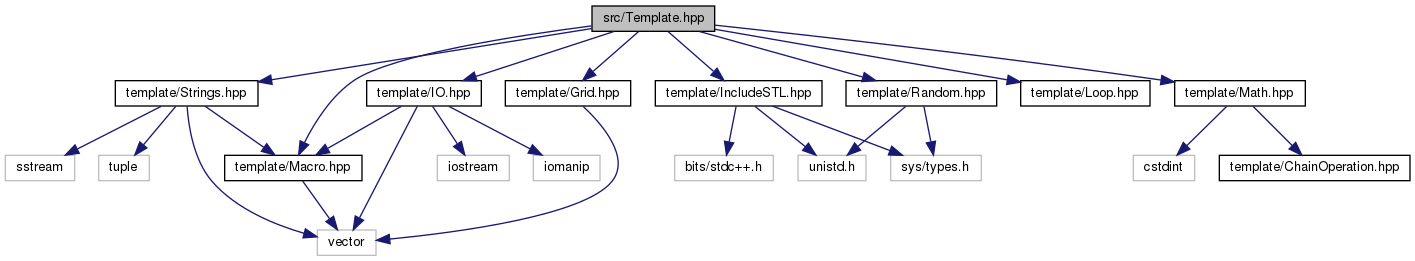
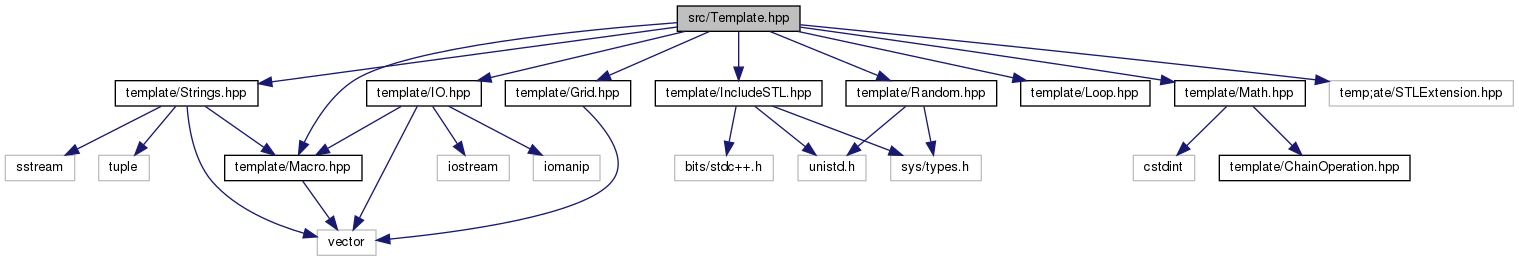
[ci] update documents

diff --git a/docs/html/d4/d19/_s_t_l_extension_8hpp.html b/docs/html/d4/d19/_s_t_l_extension_8hpp.html
@@ -98,8 +98,6 @@ $(document).ready(function(){initNavTree('d4/d19/_s_t_l_extension_8hpp.html','..
 Include dependency graph for STLExtension.hpp:</div>
 <div class="dyncontent">
 <div class="center"><img src="../../d0/d15/_s_t_l_extension_8hpp__incl.png" border="0" usemap="#src_2template_2_s_t_l_extension_8hpp" alt=""/></div>
-<map name="src_2template_2_s_t_l_extension_8hpp" id="src_2template_2_s_t_l_extension_8hpp">
-</map>
 </div>
 </div><div class="textblock"><div class="dynheader">
 This graph shows which files directly or indirectly include this file:</div>
@@ -221,15 +219,11 @@ template&lt;typename T , typename U &gt; </div>
 Here is the call graph for this function:</div>
 <div class="dyncontent">
 <div class="center"><img src="../../d4/d19/_s_t_l_extension_8hpp_a3a4d1aa13e4c8fd2f856d95381d37332_cgraph.png" border="0" usemap="#d4/d19/_s_t_l_extension_8hpp_a3a4d1aa13e4c8fd2f856d95381d37332_cgraph" alt=""/></div>
-<map name="d4/d19/_s_t_l_extension_8hpp_a3a4d1aa13e4c8fd2f856d95381d37332_cgraph" id="d4/d19/_s_t_l_extension_8hpp_a3a4d1aa13e4c8fd2f856d95381d37332_cgraph">
-</map>
 </div>
 <div class="dynheader">
 Here is the caller graph for this function:</div>
 <div class="dyncontent">
 <div class="center"><img src="../../d4/d19/_s_t_l_extension_8hpp_a3a4d1aa13e4c8fd2f856d95381d37332_icgraph.png" border="0" usemap="#d4/d19/_s_t_l_extension_8hpp_a3a4d1aa13e4c8fd2f856d95381d37332_icgraph" alt=""/></div>
-<map name="d4/d19/_s_t_l_extension_8hpp_a3a4d1aa13e4c8fd2f856d95381d37332_icgraph" id="d4/d19/_s_t_l_extension_8hpp_a3a4d1aa13e4c8fd2f856d95381d37332_icgraph">
-</map>
 </div>
 
 </div>
@@ -345,15 +339,11 @@ template&lt;typename Container , typename T &gt; </div>
 Here is the call graph for this function:</div>
 <div class="dyncontent">
 <div class="center"><img src="../../d4/d19/_s_t_l_extension_8hpp_a793eb926345978297b088f99d1db2910_cgraph.png" border="0" usemap="#d4/d19/_s_t_l_extension_8hpp_a793eb926345978297b088f99d1db2910_cgraph" alt=""/></div>
-<map name="d4/d19/_s_t_l_extension_8hpp_a793eb926345978297b088f99d1db2910_cgraph" id="d4/d19/_s_t_l_extension_8hpp_a793eb926345978297b088f99d1db2910_cgraph">
-</map>
 </div>
 <div class="dynheader">
 Here is the caller graph for this function:</div>
 <div class="dyncontent">
 <div class="center"><img src="../../d4/d19/_s_t_l_extension_8hpp_a793eb926345978297b088f99d1db2910_icgraph.png" border="0" usemap="#d4/d19/_s_t_l_extension_8hpp_a793eb926345978297b088f99d1db2910_icgraph" alt=""/></div>
-<map name="d4/d19/_s_t_l_extension_8hpp_a793eb926345978297b088f99d1db2910_icgraph" id="d4/d19/_s_t_l_extension_8hpp_a793eb926345978297b088f99d1db2910_icgraph">
-</map>
 </div>
 
 </div>
@@ -414,15 +404,11 @@ Here is the caller graph for this function:</div>
 Here is the call graph for this function:</div>
 <div class="dyncontent">
 <div class="center"><img src="../../d4/d19/_s_t_l_extension_8hpp_a47d0381060d6e9728af82d63c279ce98_cgraph.png" border="0" usemap="#d4/d19/_s_t_l_extension_8hpp_a47d0381060d6e9728af82d63c279ce98_cgraph" alt=""/></div>
-<map name="d4/d19/_s_t_l_extension_8hpp_a47d0381060d6e9728af82d63c279ce98_cgraph" id="d4/d19/_s_t_l_extension_8hpp_a47d0381060d6e9728af82d63c279ce98_cgraph">
-</map>
 </div>
 <div class="dynheader">
 Here is the caller graph for this function:</div>
 <div class="dyncontent">
 <div class="center"><img src="../../d4/d19/_s_t_l_extension_8hpp_a47d0381060d6e9728af82d63c279ce98_icgraph.png" border="0" usemap="#d4/d19/_s_t_l_extension_8hpp_a47d0381060d6e9728af82d63c279ce98_icgraph" alt=""/></div>
-<map name="d4/d19/_s_t_l_extension_8hpp_a47d0381060d6e9728af82d63c279ce98_icgraph" id="d4/d19/_s_t_l_extension_8hpp_a47d0381060d6e9728af82d63c279ce98_icgraph">
-</map>
 </div>
 
 </div>
@@ -491,15 +477,11 @@ template&lt;typename ITR &gt; </div>
 Here is the call graph for this function:</div>
 <div class="dyncontent">
 <div class="center"><img src="../../d4/d19/_s_t_l_extension_8hpp_a5361fe11f12bba2484c23a8308933524_cgraph.png" border="0" usemap="#d4/d19/_s_t_l_extension_8hpp_a5361fe11f12bba2484c23a8308933524_cgraph" alt=""/></div>
-<map name="d4/d19/_s_t_l_extension_8hpp_a5361fe11f12bba2484c23a8308933524_cgraph" id="d4/d19/_s_t_l_extension_8hpp_a5361fe11f12bba2484c23a8308933524_cgraph">
-</map>
 </div>
 <div class="dynheader">
 Here is the caller graph for this function:</div>
 <div class="dyncontent">
 <div class="center"><img src="../../d4/d19/_s_t_l_extension_8hpp_a5361fe11f12bba2484c23a8308933524_icgraph.png" border="0" usemap="#d4/d19/_s_t_l_extension_8hpp_a5361fe11f12bba2484c23a8308933524_icgraph" alt=""/></div>
-<map name="d4/d19/_s_t_l_extension_8hpp_a5361fe11f12bba2484c23a8308933524_icgraph" id="d4/d19/_s_t_l_extension_8hpp_a5361fe11f12bba2484c23a8308933524_icgraph">
-</map>
 </div>
 
 </div>
@@ -632,15 +614,11 @@ template&lt;typename ITR &gt; </div>
 Here is the call graph for this function:</div>
 <div class="dyncontent">
 <div class="center"><img src="../../d4/d19/_s_t_l_extension_8hpp_adeea0e688ee5326451a073f4ceeb9f7f_cgraph.png" border="0" usemap="#d4/d19/_s_t_l_extension_8hpp_adeea0e688ee5326451a073f4ceeb9f7f_cgraph" alt=""/></div>
-<map name="d4/d19/_s_t_l_extension_8hpp_adeea0e688ee5326451a073f4ceeb9f7f_cgraph" id="d4/d19/_s_t_l_extension_8hpp_adeea0e688ee5326451a073f4ceeb9f7f_cgraph">
-</map>
 </div>
 <div class="dynheader">
 Here is the caller graph for this function:</div>
 <div class="dyncontent">
 <div class="center"><img src="../../d4/d19/_s_t_l_extension_8hpp_adeea0e688ee5326451a073f4ceeb9f7f_icgraph.png" border="0" usemap="#d4/d19/_s_t_l_extension_8hpp_adeea0e688ee5326451a073f4ceeb9f7f_icgraph" alt=""/></div>
-<map name="d4/d19/_s_t_l_extension_8hpp_adeea0e688ee5326451a073f4ceeb9f7f_icgraph" id="d4/d19/_s_t_l_extension_8hpp_adeea0e688ee5326451a073f4ceeb9f7f_icgraph">
-</map>
 </div>
 
 </div>
@@ -755,15 +733,11 @@ template&lt;typename Container &gt; </div>
 Here is the call graph for this function:</div>
 <div class="dyncontent">
 <div class="center"><img src="../../d4/d19/_s_t_l_extension_8hpp_a3c4370a67563da5a0e302f38c2ec58fe_cgraph.png" border="0" usemap="#d4/d19/_s_t_l_extension_8hpp_a3c4370a67563da5a0e302f38c2ec58fe_cgraph" alt=""/></div>
-<map name="d4/d19/_s_t_l_extension_8hpp_a3c4370a67563da5a0e302f38c2ec58fe_cgraph" id="d4/d19/_s_t_l_extension_8hpp_a3c4370a67563da5a0e302f38c2ec58fe_cgraph">
-</map>
 </div>
 <div class="dynheader">
 Here is the caller graph for this function:</div>
 <div class="dyncontent">
 <div class="center"><img src="../../d4/d19/_s_t_l_extension_8hpp_a3c4370a67563da5a0e302f38c2ec58fe_icgraph.png" border="0" usemap="#d4/d19/_s_t_l_extension_8hpp_a3c4370a67563da5a0e302f38c2ec58fe_icgraph" alt=""/></div>
-<map name="d4/d19/_s_t_l_extension_8hpp_a3c4370a67563da5a0e302f38c2ec58fe_icgraph" id="d4/d19/_s_t_l_extension_8hpp_a3c4370a67563da5a0e302f38c2ec58fe_icgraph">
-</map>
 </div>
 
 </div>
@@ -814,15 +788,11 @@ template&lt;typename Container &gt; </div>
 Here is the call graph for this function:</div>
 <div class="dyncontent">
 <div class="center"><img src="../../d4/d19/_s_t_l_extension_8hpp_a85eebae905e5b0c5a31db11bef959fd0_cgraph.png" border="0" usemap="#d4/d19/_s_t_l_extension_8hpp_a85eebae905e5b0c5a31db11bef959fd0_cgraph" alt=""/></div>
-<map name="d4/d19/_s_t_l_extension_8hpp_a85eebae905e5b0c5a31db11bef959fd0_cgraph" id="d4/d19/_s_t_l_extension_8hpp_a85eebae905e5b0c5a31db11bef959fd0_cgraph">
-</map>
 </div>
 <div class="dynheader">
 Here is the caller graph for this function:</div>
 <div class="dyncontent">
 <div class="center"><img src="../../d4/d19/_s_t_l_extension_8hpp_a85eebae905e5b0c5a31db11bef959fd0_icgraph.png" border="0" usemap="#d4/d19/_s_t_l_extension_8hpp_a85eebae905e5b0c5a31db11bef959fd0_icgraph" alt=""/></div>
-<map name="d4/d19/_s_t_l_extension_8hpp_a85eebae905e5b0c5a31db11bef959fd0_icgraph" id="d4/d19/_s_t_l_extension_8hpp_a85eebae905e5b0c5a31db11bef959fd0_icgraph">
-</map>
 </div>
 
 </div>

diff --git a/docs/html/df/dc0/_template_8hpp_source.html b/docs/html/df/dc0/_template_8hpp_source.html
@@ -84,7 +84,7 @@ $(document).ready(function(){initNavTree('df/dc0/_template_8hpp_source.html','..
 <div class="title">Template.hpp</div>  </div>
 </div><!--header-->
 <div class="contents">
-<a href="../../df/dc0/_template_8hpp.html">Go to the documentation of this file.</a><div class="fragment"><div class="line"><a name="l00001"></a><span class="lineno">    1</span>&#160;</div><div class="line"><a name="l00009"></a><span class="lineno">    9</span>&#160;<span class="comment">/*&lt;head&gt;*/</span></div><div class="line"><a name="l00010"></a><span class="lineno">   10</span>&#160;<span class="preprocessor">#pragma once</span></div><div class="line"><a name="l00011"></a><span class="lineno">   11</span>&#160;<span class="preprocessor">#include &quot;template/Grid.hpp&quot;</span></div><div class="line"><a name="l00012"></a><span class="lineno">   12</span>&#160;<span class="preprocessor">#include &quot;<a class="code" href="../../d8/d1c/_i_o_8hpp.html">template/IO.hpp</a>&quot;</span></div><div class="line"><a name="l00013"></a><span class="lineno">   13</span>&#160;<span class="preprocessor">#include &quot;<a class="code" href="../../de/d69/_include_s_t_l_8hpp.html">template/IncludeSTL.hpp</a>&quot;</span></div><div class="line"><a name="l00014"></a><span class="lineno">   14</span>&#160;<span class="preprocessor">#include &quot;<a class="code" href="../../d7/d75/_loop_8hpp.html">template/Loop.hpp</a>&quot;</span></div><div class="line"><a name="l00015"></a><span class="lineno">   15</span>&#160;<span class="preprocessor">#include &quot;<a class="code" href="../../de/d09/_macro_8hpp.html">template/Macro.hpp</a>&quot;</span></div><div class="line"><a name="l00016"></a><span class="lineno">   16</span>&#160;<span class="preprocessor">#include &quot;<a class="code" href="../../dc/dba/_math_8hpp.html">template/Math.hpp</a>&quot;</span></div><div class="line"><a name="l00017"></a><span class="lineno">   17</span>&#160;<span class="preprocessor">#include &quot;<a class="code" href="../../d0/d57/_random_8hpp.html">template/Random.hpp</a>&quot;</span></div><div class="line"><a name="l00018"></a><span class="lineno">   18</span>&#160;<span class="preprocessor">#include &quot;<a class="code" href="../../d2/dfe/_strings_8hpp.html">template/Strings.hpp</a>&quot;</span></div><div class="line"><a name="l00019"></a><span class="lineno">   19</span>&#160;<span class="comment">/*&lt;/head&gt;*/</span></div><div class="ttc" id="_macro_8hpp_html"><div class="ttname"><a href="../../de/d09/_macro_8hpp.html">Macro.hpp</a></div><div class="ttdoc">マクロとか，LLとか </div></div>
+<a href="../../df/dc0/_template_8hpp.html">Go to the documentation of this file.</a><div class="fragment"><div class="line"><a name="l00001"></a><span class="lineno">    1</span>&#160;</div><div class="line"><a name="l00009"></a><span class="lineno">    9</span>&#160;<span class="comment">/*&lt;head&gt;*/</span></div><div class="line"><a name="l00010"></a><span class="lineno">   10</span>&#160;<span class="preprocessor">#pragma once</span></div><div class="line"><a name="l00011"></a><span class="lineno">   11</span>&#160;<span class="preprocessor">#include &quot;template/Grid.hpp&quot;</span></div><div class="line"><a name="l00012"></a><span class="lineno">   12</span>&#160;<span class="preprocessor">#include &quot;<a class="code" href="../../d8/d1c/_i_o_8hpp.html">template/IO.hpp</a>&quot;</span></div><div class="line"><a name="l00013"></a><span class="lineno">   13</span>&#160;<span class="preprocessor">#include &quot;<a class="code" href="../../de/d69/_include_s_t_l_8hpp.html">template/IncludeSTL.hpp</a>&quot;</span></div><div class="line"><a name="l00014"></a><span class="lineno">   14</span>&#160;<span class="preprocessor">#include &quot;<a class="code" href="../../d7/d75/_loop_8hpp.html">template/Loop.hpp</a>&quot;</span></div><div class="line"><a name="l00015"></a><span class="lineno">   15</span>&#160;<span class="preprocessor">#include &quot;<a class="code" href="../../de/d09/_macro_8hpp.html">template/Macro.hpp</a>&quot;</span></div><div class="line"><a name="l00016"></a><span class="lineno">   16</span>&#160;<span class="preprocessor">#include &quot;<a class="code" href="../../dc/dba/_math_8hpp.html">template/Math.hpp</a>&quot;</span></div><div class="line"><a name="l00017"></a><span class="lineno">   17</span>&#160;<span class="preprocessor">#include &quot;<a class="code" href="../../d0/d57/_random_8hpp.html">template/Random.hpp</a>&quot;</span></div><div class="line"><a name="l00018"></a><span class="lineno">   18</span>&#160;<span class="preprocessor">#include &quot;temp;ate/STLExtension.hpp&quot;</span></div><div class="line"><a name="l00019"></a><span class="lineno">   19</span>&#160;<span class="preprocessor">#include &quot;<a class="code" href="../../d2/dfe/_strings_8hpp.html">template/Strings.hpp</a>&quot;</span></div><div class="line"><a name="l00020"></a><span class="lineno">   20</span>&#160;<span class="comment">/*&lt;/head&gt;*/</span></div><div class="ttc" id="_macro_8hpp_html"><div class="ttname"><a href="../../de/d09/_macro_8hpp.html">Macro.hpp</a></div><div class="ttdoc">マクロとか，LLとか </div></div>
 <div class="ttc" id="_random_8hpp_html"><div class="ttname"><a href="../../d0/d57/_random_8hpp.html">Random.hpp</a></div><div class="ttdoc">乱数生成系 </div></div>
 <div class="ttc" id="_math_8hpp_html"><div class="ttname"><a href="../../dc/dba/_math_8hpp.html">Math.hpp</a></div><div class="ttdoc">最大値とか最小値を求める </div></div>
 <div class="ttc" id="_include_s_t_l_8hpp_html"><div class="ttname"><a href="../../de/d69/_include_s_t_l_8hpp.html">IncludeSTL.hpp</a></div><div class="ttdoc">標準ライブラリをincludeするだけ </div></div>

diff --git a/docs/html/df/dc0/_template_8hpp.html b/docs/html/df/dc0/_template_8hpp.html
@@ -94,6 +94,7 @@ $(document).ready(function(){initNavTree('df/dc0/_template_8hpp.html','../../');
 <code>#include &quot;<a class="el" href="../../de/d09/_macro_8hpp_source.html">template/Macro.hpp</a>&quot;</code><br />
 <code>#include &quot;<a class="el" href="../../dc/dba/_math_8hpp_source.html">template/Math.hpp</a>&quot;</code><br />
 <code>#include &quot;<a class="el" href="../../d0/d57/_random_8hpp_source.html">template/Random.hpp</a>&quot;</code><br />
+<code>#include &quot;temp;ate/STLExtension.hpp&quot;</code><br />
 <code>#include &quot;<a class="el" href="../../d2/dfe/_strings_8hpp_source.html">template/Strings.hpp</a>&quot;</code><br />
 </div><div class="textblock"><div class="dynheader">
 Include dependency graph for Template.hpp:</div>
@@ -107,7 +108,7 @@ Include dependency graph for Template.hpp:</div>
 <area shape="rect" id="node12" href="../../d7/d75/_loop_8hpp.html" title="rangeとかループ系のクラス " alt="" coords="1021,80,1150,107"/>
 <area shape="rect" id="node13" href="../../dc/dba/_math_8hpp.html" title="最大値とか最小値を求める " alt="" coords="1175,80,1305,107"/>
 <area shape="rect" id="node16" href="../../d0/d57/_random_8hpp.html" title="乱数生成系 " alt="" coords="846,80,997,107"/>
-<area shape="rect" id="node17" href="../../d2/dfe/_strings_8hpp.html" title="文字列を扱いやすくするライブラリ " alt="" coords="115,80,258,107"/>
+<area shape="rect" id="node18" href="../../d2/dfe/_strings_8hpp.html" title="文字列を扱いやすくするライブラリ " alt="" coords="115,80,258,107"/>
 <area shape="rect" id="node14" href="../../dc/d70/_chain_operation_8hpp.html" title="パラメータパックを利用した演算子結合を実現 " alt="" coords="1219,155,1410,181"/>
 </map>
 </div>
